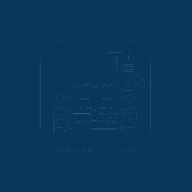
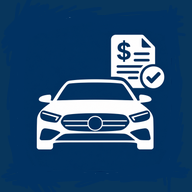
Add files via upload

Changed region(s): [[0.1875, 0.1562, 0.875, 0.7812]]

diff --git a/sw.js b/sw.js
@@ -1,38 +1,5 @@
-const CACHE='full-settlement-v18';
-const ASSETS=[
-  './',
-  './index.html',
-  './manifest.webmanifest',
-  './icon-192.png',
-  './icon-512.png',
-  './full-settlement-logo.png',
-  './share-logo.png'
-];
-
-self.addEventListener('install',event=>{
-  event.waitUntil(caches.open(CACHE).then(cache=>cache.addAll(ASSETS)));
-  self.skipWaiting();
-});
-
-self.addEventListener('activate',event=>{
-  event.waitUntil(
-    caches.keys().then(keys=>Promise.all(
-      keys.filter(k=>k!==CACHE).map(k=>caches.delete(k))
-    ))
-  );
-  self.clients.claim();
-});
-
-self.addEventListener('fetch',event=>{
-  if(event.request.method!=='GET') return;
-  event.respondWith(
-    caches.match(event.request).then(cached=>{
-      if(cached) return cached;
-      return fetch(event.request).then(response=>{
-        const copy=response.clone();
-        caches.open(CACHE).then(cache=>cache.put(event.request,copy));
-        return response;
-      }).catch(()=>caches.match('./index.html'));
-    })
-  );
-});
+const CACHE='full-settlement-v19';
+const ASSETS=['./','./index.html','./manifest.webmanifest','./icon-192.png','./icon-512.png','./full-settlement-logo.png'];
+self.addEventListener('install',e=>{e.waitUntil(caches.open(CACHE).then(c=>c.addAll(ASSETS)));self.skipWaiting();});
+self.addEventListener('activate',e=>{e.waitUntil(caches.keys().then(ks=>Promise.all(ks.filter(k=>k!==CACHE).map(k=>caches.delete(k)))));self.clients.claim();});
+self.addEventListener('fetch',e=>{if(e.request.method!=='GET')return;e.respondWith(caches.match(e.request).then(r=>r||fetch(e.request).then(x=>{const y=x.clone();caches.open(CACHE).then(c=>c.put(e.request,y));return x;}).catch(()=>caches.match('./index.html'))));});

diff --git a/index.html b/index.html
@@ -872,9 +872,9 @@ button,input,select{font:inherit;-webkit-tap-highlight-color:transparent}
     ctx.fill();
 
     // App icon
-    const icon=await loadCanvasImage('./share-logo.png');
+    const icon=await loadCanvasImage('./full-settlement-logo.png');
     if(icon){
-      ctx.drawImage(icon,52,49,96,96);
+      ctx.drawImage(icon,45,42,110,110);
     }
 
     // vertical divider
